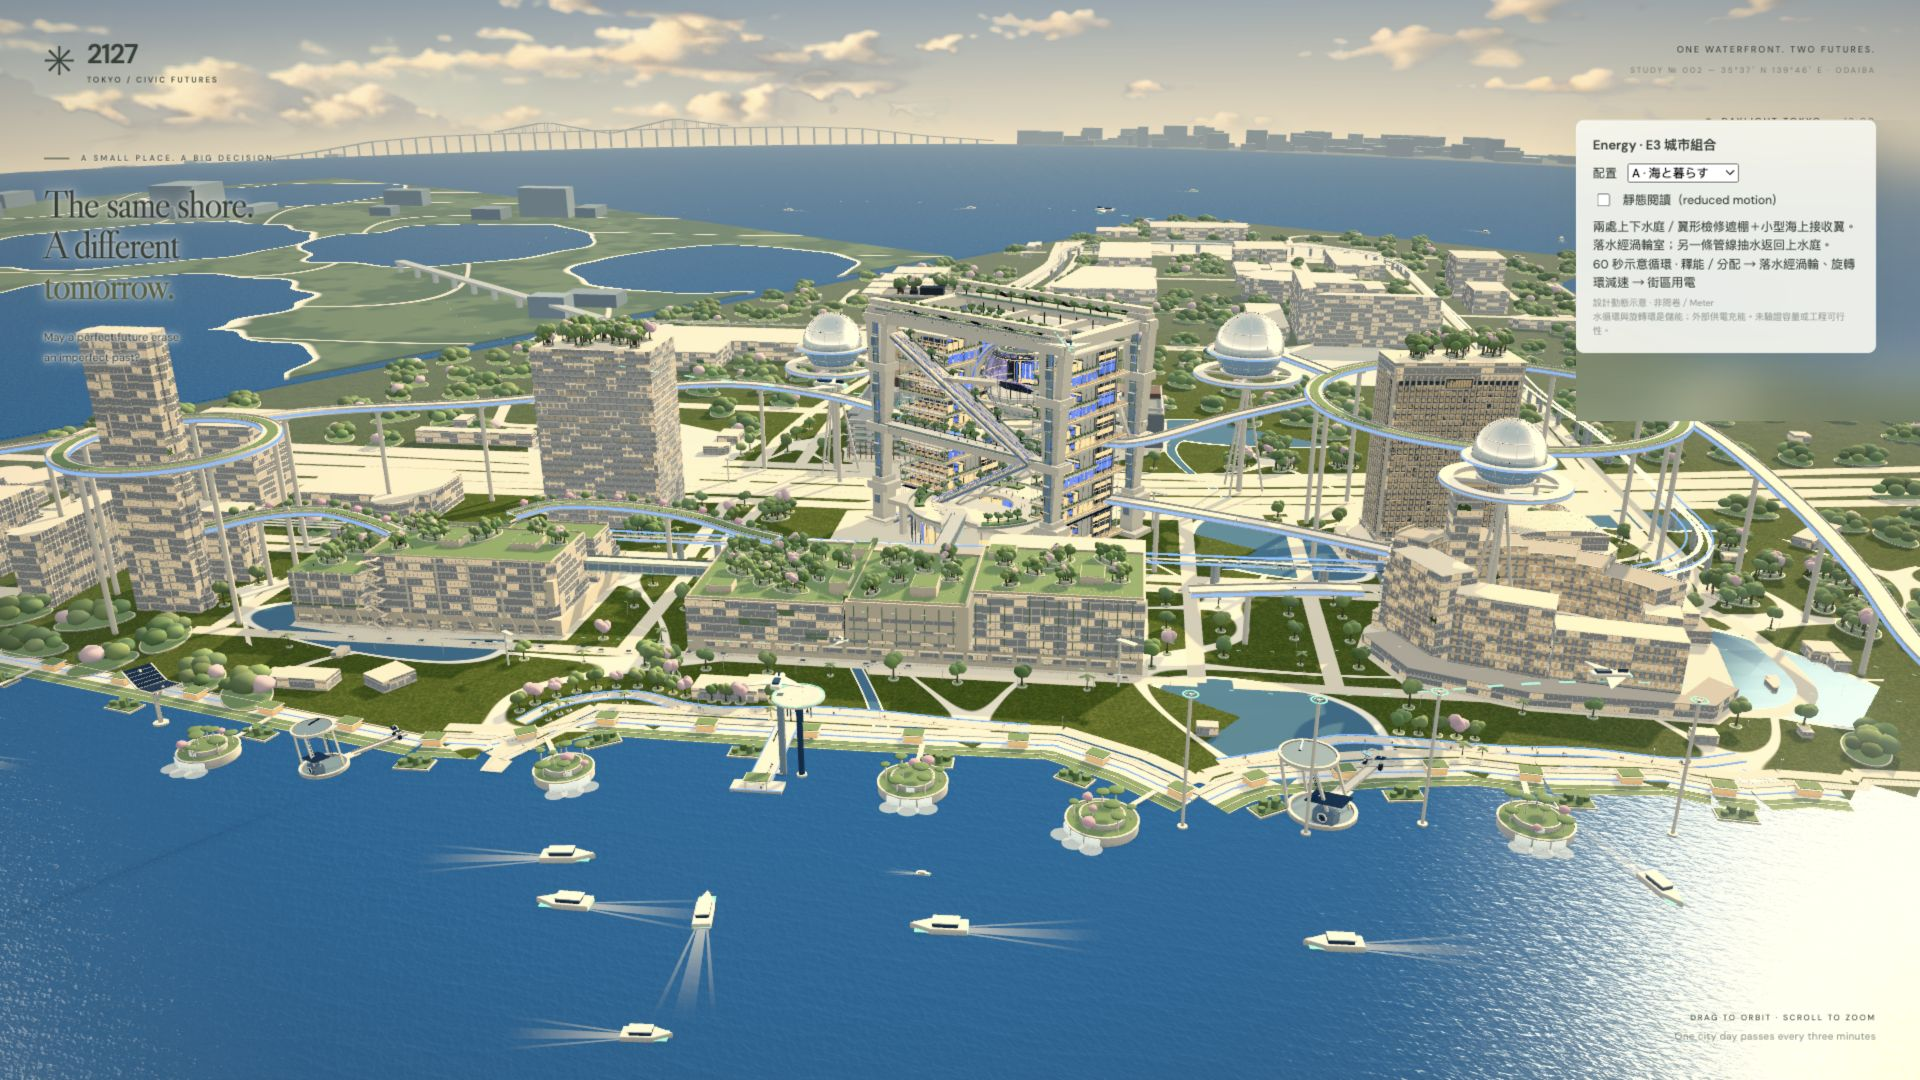
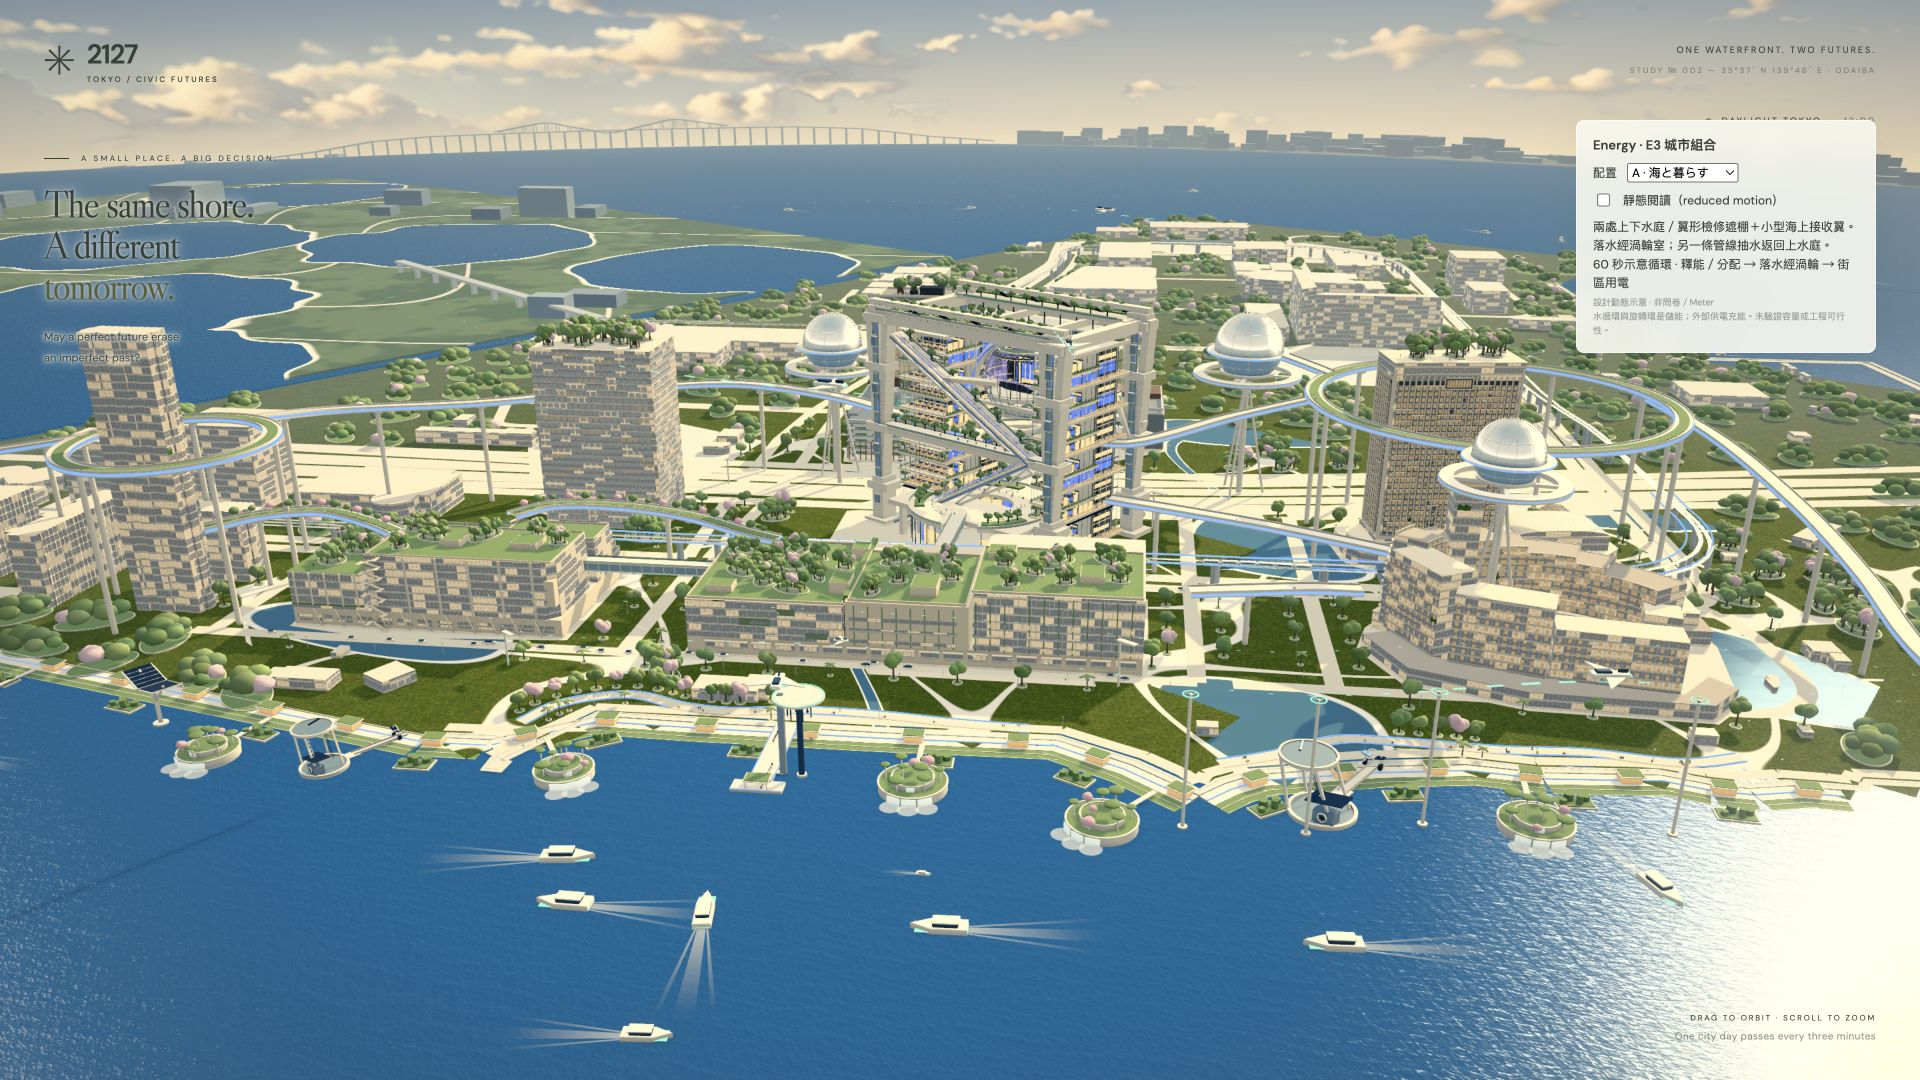
fix(energy): describe only visible storage equipment
- Give A and B configuration-specific operation and static-reading copy.
- Verify the rendered text and refresh the affected desktop evidence.

diff --git a/src/devEnergy.ts b/src/devEnergy.ts
@@ -29,11 +29,16 @@ export function startEnergyReview(scene: Scene, params: URLSearchParams) {
   const still = panel.querySelector<HTMLInputElement>('input')!;
   still.checked = motion.matches;
   motion.addEventListener('change', () => { still.checked = motion.matches; });
-  const phases = { charge: '接收／外部供電 → 抽水上行、旋轉環充能', hold: '暫存 → 上水庭保水、旋轉環續轉', release: '釋能／分配 → 落水經渦輪、旋轉環減速 → 街區用電' };
+  const phases = {
+    a: { charge: '接收／外部供電 → 抽水上行、上水庭蓄水', hold: '暫存 → 上水庭保水、渦輪停定', release: '釋能／分配 → 落水經渦輪 → 街區用電' },
+    b: { charge: '接收／外部供電 → 旋轉環充能', hold: '暫存 → 旋轉環續轉', release: '釋能／分配 → 旋轉環減速 → 街區用電' },
+    mixed: { charge: '接收／外部供電 → 抽水上行、旋轉環充能', hold: '暫存 → 上水庭保水、旋轉環續轉', release: '釋能／分配 → 落水經渦輪、旋轉環減速 → 街區用電' },
+  };
   let previous = '';
   return (seconds: number) => {
     const cycle = study.update(seconds, motion.matches || still.checked);
-    const text = study.option === 'baseline' ? '' : study.option === 'c' ? '能源島 → 檢修橋服務線 → 街區配電節點（供電路線示意）' : motion.matches || still.checked ? '靜態閱讀：接收 → 儲能 → 街區；箭頭標示落水／抽水回管，水位與機械保持固定。' : `60 秒示意循環 · ${phases[cycle.phase]}`;
+    const staticText = study.option === 'b' ? '靜態閱讀：接收 → 儲能 → 街區；接收翼、旋轉環與配電門架保持固定。' : '靜態閱讀：接收 → 儲能 → 街區；箭頭標示落水／抽水回管，水位與機械保持固定。';
+    const text = study.option === 'baseline' ? '' : study.option === 'c' ? '能源島 → 檢修橋服務線 → 街區配電節點（供電路線示意）' : motion.matches || still.checked ? staticText : `60 秒示意循環 · ${phases[study.option][cycle.phase]}`;
     if (text !== previous) { status.textContent = text; previous = text; }
   };
 }

diff --git a/docs/handoffs/energy-city.md b/docs/handoffs/energy-city.md
@@ -26,13 +26,15 @@
 ## E3 validation
 
 - PASS — root `npm test`（Node26.0.0，真實loopback survey HTTP／WebSocket、81組答案與既有城市／路徑檢查）；最終任務內容完整重跑通過；整合後結果於下方補記。未改兩個子package，未另跑其本機suite。
-- PASS — root `npm run build`；沿用既有>500kB chunk warning；產物無energy-prototype／E3工具。`git diff --check`通過；379個本機Markdown links／anchors／targets檢查PASS。
+- PASS — root `npm run build`；沿用既有>500kB chunk warning；產物無energy-prototype／E3工具。`git diff --check`通過；380個本機Markdown links／anchors／targets檢查PASS。
 - PASS — 五配置／geometry重用；環角度、水位跨phase連續；水位方向／界限、配電流向、C獨立配電、全部能源world transforms及instance矩陣的reduced-motion時間不變性。
 - PASS — 富士環保守全周annulus（內29／外33 m，厚3 m），對真實civicCore及固定支承；兩渦輪圓盤（r2.3／厚0.9 m）對固定室／支承，並檢查真正轉子都包含在掃掠內。沿用21,595個完整320秒／0.5秒船體樣本、公共／deck／22m航空走廊、泊位、六rooms／連岸路、beacons、四站hero視線；所有mesh頂點在原hero畫框。兩庭公共步道對tidalEdge及能源機械／門架的headroom檢查通過。
 - Desktop browser evidence: macOS本機Codex in-app Chromium／WebGL2，1920×1080，預設quality，hero／近景與hour／reviewTime列在artifact README。五日景、混合暮／夜、近景三階段／靜態閱讀已檢查；實時畫面從暫存推進至下一輪充能，1440×900 canvas CSS尺寸跟隨resize後回1920×1080；standalone／Meter優先隔離控制數量0，console error／warn為空。瀏覽器啟動時兩次locator遇到載入期間CDP timeout，待頁面完成後恢復；不是程式console例外。
 - OS全域reduced-motion偏好未改；瀏覽器用原生核取框測相同靜態分支，Node檢查所有新增動態固定。完整HTTP network trace、實際GPU／FPS、Safari／iPad、Windows／展覽硬件、訪客理解未測。
 - PASS — 內容`8d6cb93`推送`origin/codex/energy-city-motion`；fresh fetch確認origin/main仍為`cf5ea94`。`d2fb447`以no-ff整合，tree與任務分支完全一致；整合root `npm test`／`npm run build`、379 links／anchors／targets、committed whitespace及browser source hashes重驗PASS。主分支發布／CI結果於後續紀錄。
 - 清理PASS — Vite已透過原session停止（exit130），`lsof`確認5173沒有LISTEN；本輪in-app分頁已關閉、viewport override已reset。沒有啟動持久survey／headless服務；測試自建的loopback server隨suite正常結束。原checkout與舊截圖保留原狀。
+
+- 最後文案自審修正：A／B階段分別只描述水庭／旋轉環，避免沿用M1而提到隱藏設備；B靜態閱讀亦不提水管。瀏覽器原生選單＋checkbox斷言通過，更新A／B日景及B靜態圖，console error／warn仍為空；混合／C、幾何與時序沒有更改。補充root test／build、整合及main CI結果於完成後記錄。
 
 ## E3 limits and next step
 
